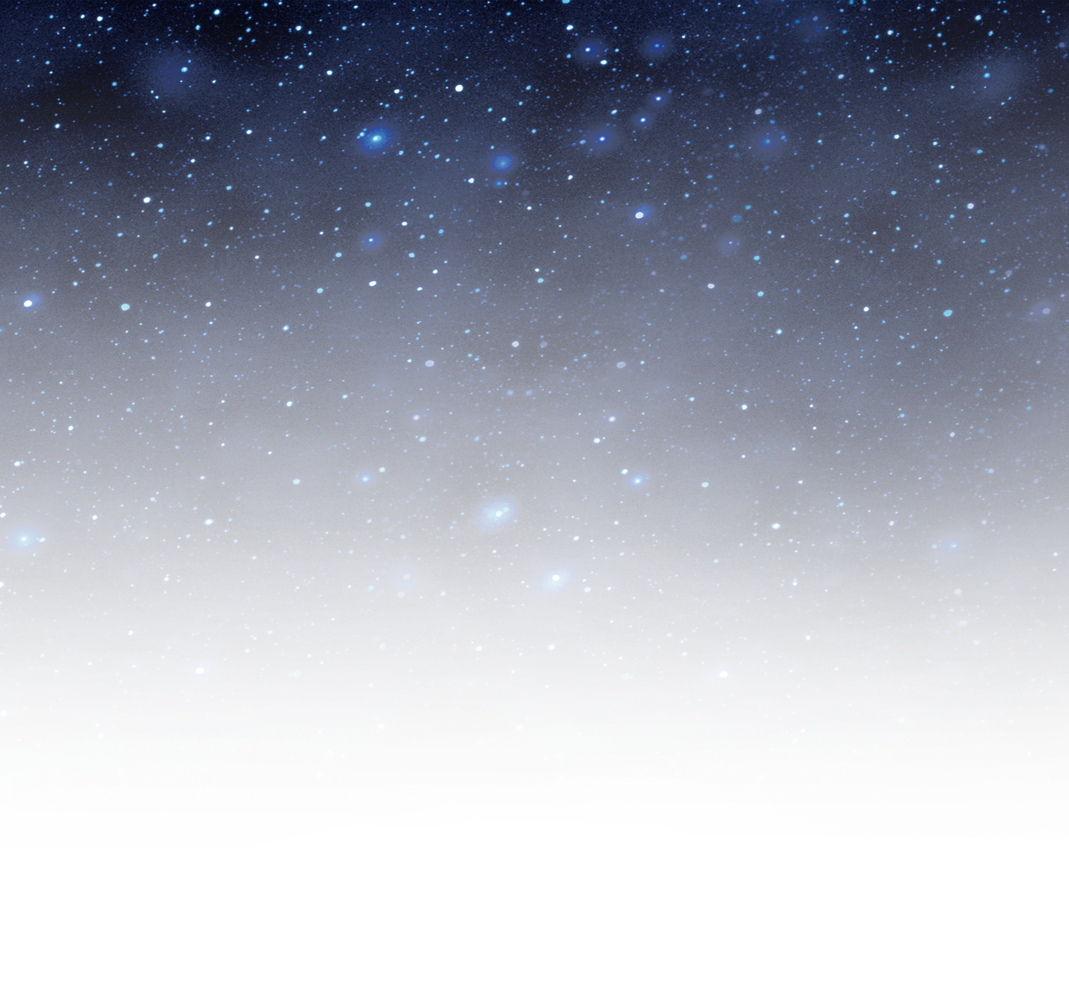
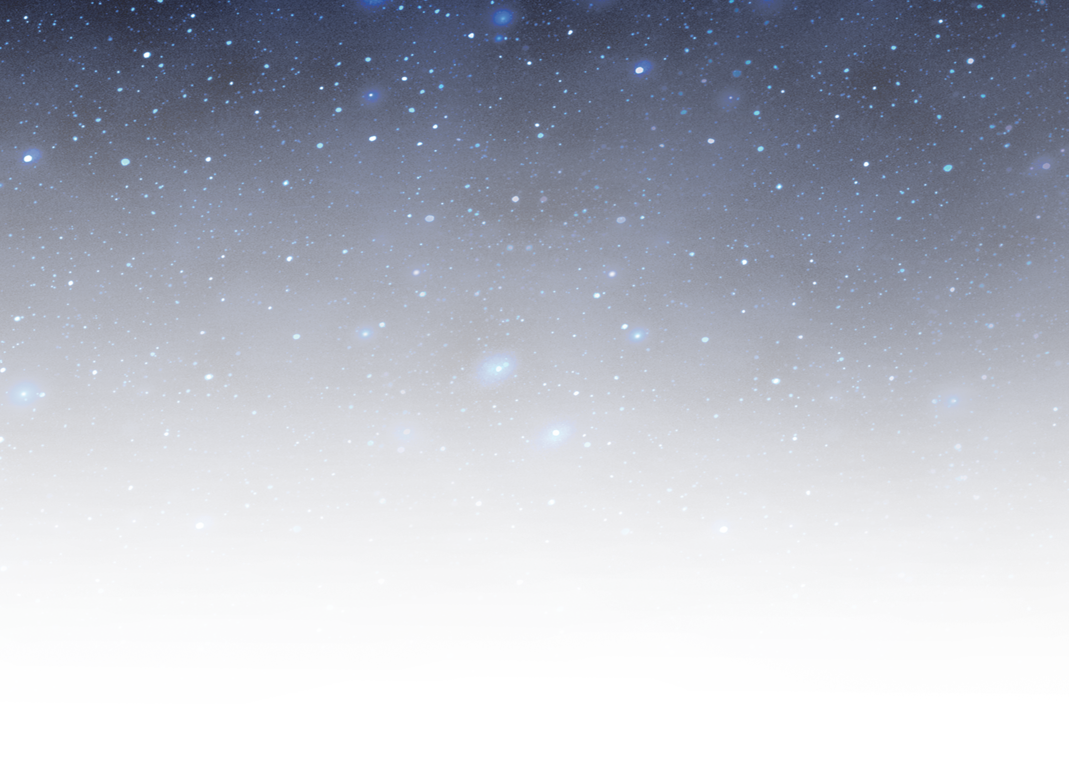
parallax improved; ship center on y

diff --git a/game/js/main.js b/game/js/main.js
@@ -1,6 +1,6 @@
 console.log('fuck you')
 
-var game = new Phaser.Game(1000, 679, Phaser.AUTO, '', { preload: preload, create: create, update: update });
+var game = new Phaser.Game(1440, 765, Phaser.AUTO, '', { preload: preload, create: create, update: update });
 
 var space;
 
@@ -22,12 +22,11 @@ function create() {
     //  We're going to be using physics, so enable the Arcade Physics system
     game.physics.startSystem(Phaser.Physics.ARCADE);
     //  A simple background for our game
-    space = game.add.tileSprite(0, 0, 1000, 679, 'space2');
-    // stars2 = game.add.tileSprite(0, 0, 1000, 679, 'stars2')
-    stars1 = game.add.tileSprite(0, 0, 1000, 679, 'stars1')
-    stars1Flipped = game.add.tileSprite(0, 0, 1000, 679, 'stars1Flipped')
+    space = game.add.tileSprite(0, 0, 1440, 765, 'space2');
+    stars1 = game.add.tileSprite(0, 0, 1440, 765, 'stars1')
+    stars1Flipped = game.add.tileSprite(0, 0, 1440, 765, 'stars1Flipped')
         // The ship and its settings
-    var ship = game.add.sprite(0, 0, 'ship1');
+    var ship = game.add.sprite(0, 330, 'ship1');
     ship.scale.setTo(.5, .5)
 
     //  We need to enable physics on the ship
@@ -36,7 +35,45 @@ function create() {
 }
 
 function update() {
+    space.tilePosition.x -= 0.6;
     stars1.tilePosition.x -= 0.75;
     stars1Flipped.tilePosition.x -= 0.75;
-    space.tilePosition.x -= 0.6;
+
+    // //  Collide the player and the stars with the platforms
+    // var hitPlatform = game.physics.arcade.collide(player, platforms);
+    // game.physics.arcade.collide(stars, platforms);
+
+    // //  Checks to see if the player overlaps with any of the stars, if he does call the collectStar function
+    // game.physics.arcade.overlap(player, stars, collectStar, null, this);
+
+    // //  Reset the players velocity (movement)
+    // player.body.velocity.x = 0;
+
+    // if (cursors.left.isDown)
+    // {
+    //     //  Move to the left
+    //     ship.body.velocity.x = -150;
+    //     ship.animations.play('left');
+    // }
+    // else if (cursors.right.isDown)
+    // {
+    //     //  Move to the right
+    //     ship.body.velocity.x = 150;
+
+    //     ship.animations.play('right');
+    // }
+    // else
+    // {
+    //     //  Stand still
+    //     ship.animations.stop();
+
+    //     ship.frame = 4;
+    // }
+    
+    // //  Allow the ship to jump if they are touching the ground.
+    // if (cursors.up.isDown && ship.body.touching.down && hitPlatform)
+    // {
+    //     ship.body.velocity.y = -600;
+    // }
+
 }

diff --git a/game/css/style.css b/game/css/style.css
@@ -1,5 +1,5 @@
 body {
-	margin: 40px;
+	margin: 0;
 	display: flex;
 	justify-content: center;
 	background-color: grey;
